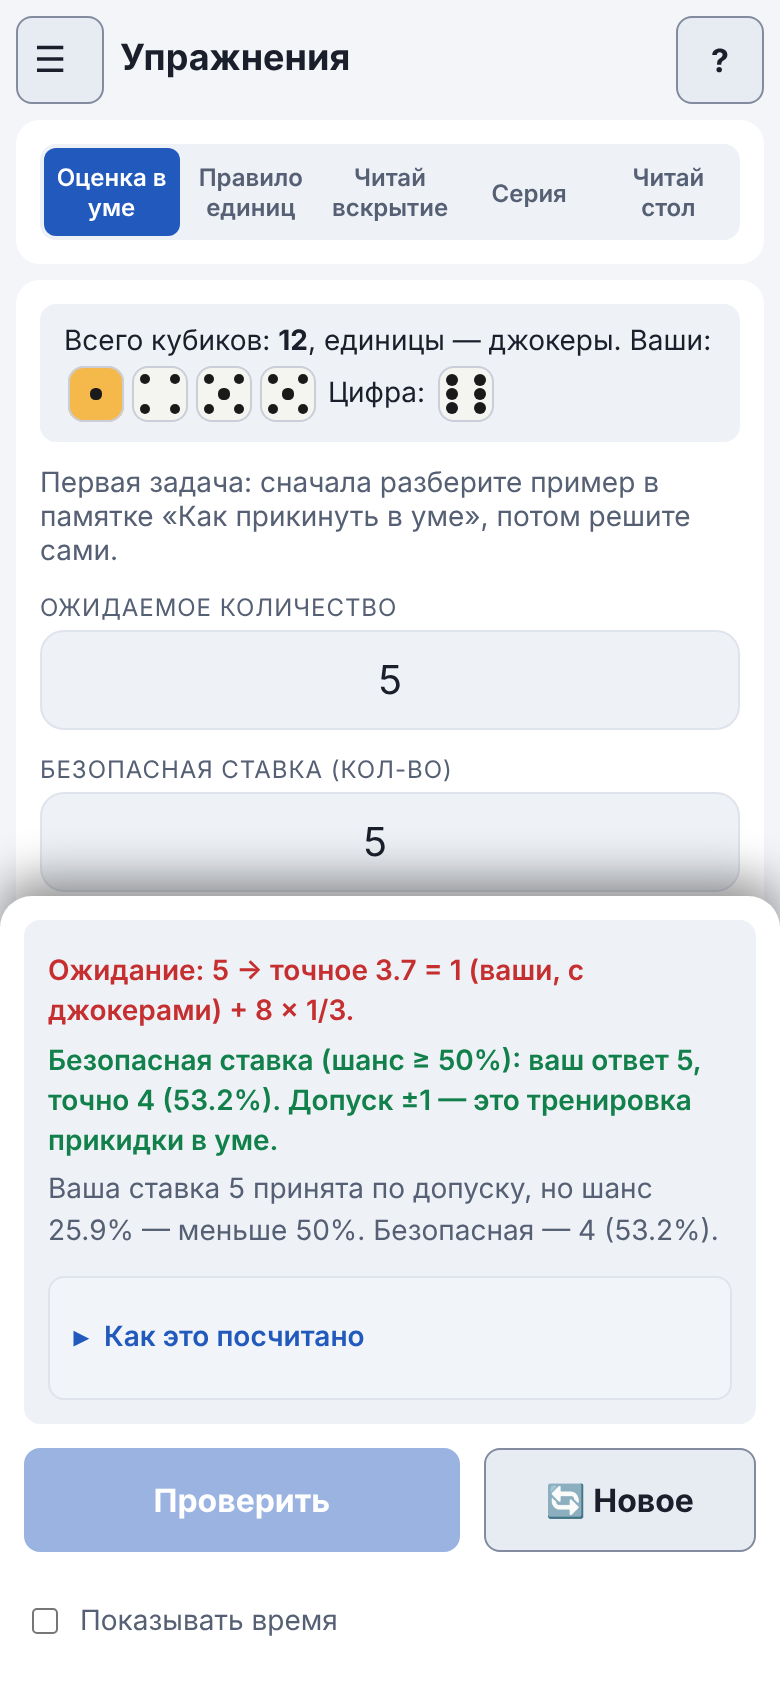
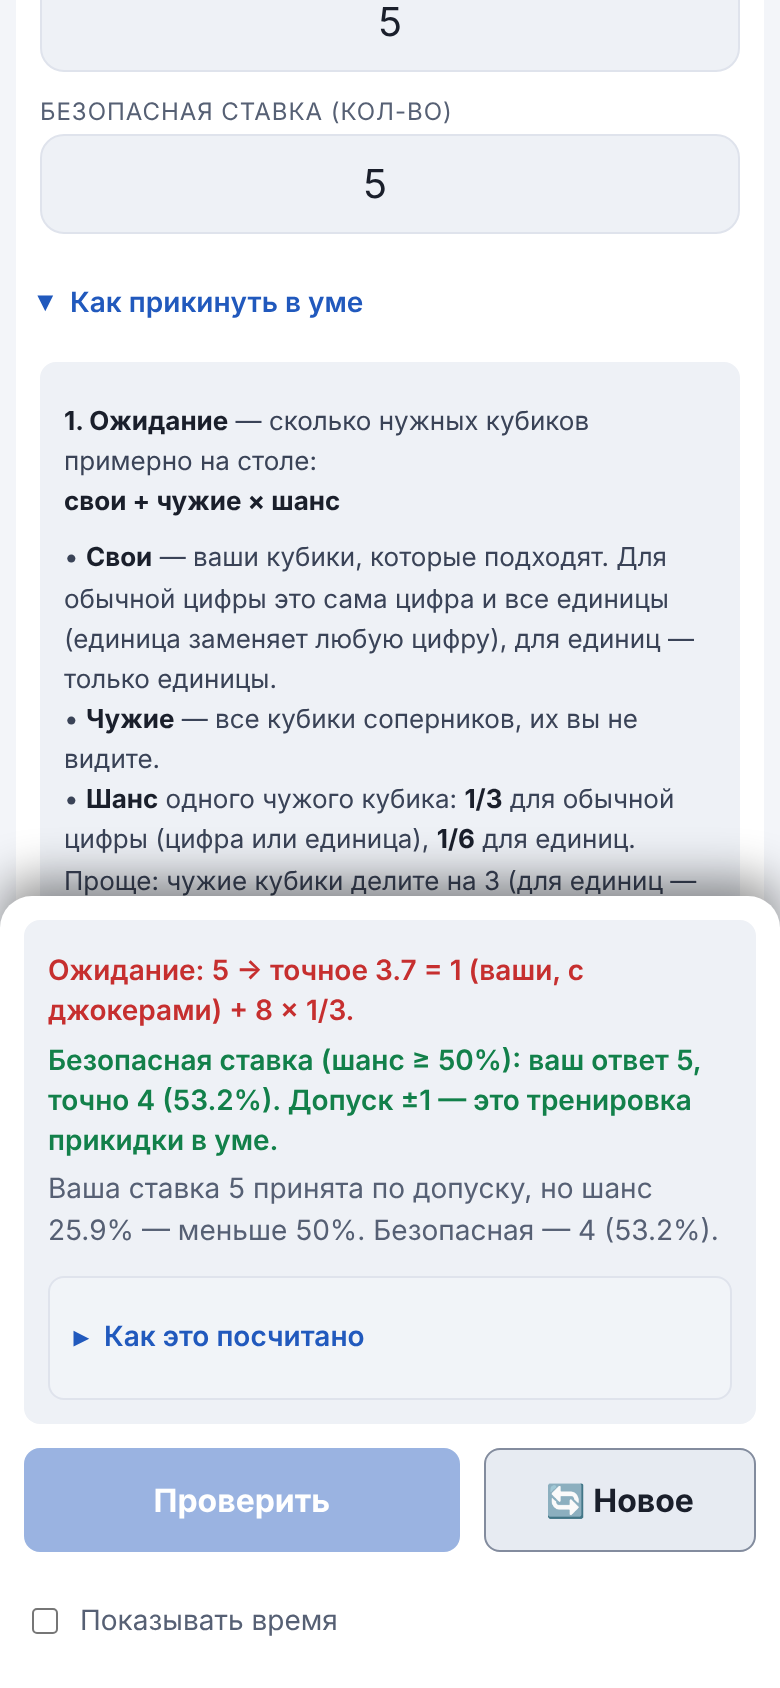
Патч 262: R-09 релиз 2.20.0 — Тренажёр по макету, единый разбор хода, скриншоты обновлены
Версия 2.20.0 (package.json, package-lock.json), запись в CHANGELOG по
волнам 20–21, R-09 отмечен (134 из 134). Скриншоты руководства
перегенерированы; снимок разбора теперь делается после повышения, чтобы
был виден блок «Шанс при повышении». Тест размеров снимков допускает
высоту страницы у снимков экрана подготовки. Аудит дизайна пересобран.

diff --git a/tests/test_screenshots.py b/tests/test_screenshots.py
@@ -68,7 +68,12 @@ class ScreenshotsTest(unittest.TestCase):
         files = sorted(f for f in os.listdir(os.path.join(ROOT, "docs", "img")) if f.endswith(".png"))
         self.assertEqual(sorted(f[:-4] for f in files), sorted(shots.NAMES), "картинки docs/img и список скрипта расходятся")
         for f in files:
-            self.assertIn(png_size(os.path.join(ROOT, "docs", "img", f)), allowed, f"{f}: нестандартный размер")
+            size = png_size(os.path.join(ROOT, "docs", "img", f))
+            if f in ("settings-desktop.png", "settings-dark-desktop.png"):
+                # снимок экрана подготовки берёт высоту страницы (R-08): от 1330 до 2600 px при ширине 1280
+                self.assertTrue(size[0] == 1280 and 1330 <= size[1] <= 2600, f"{f}: нестандартный размер {size}")
+            else:
+                self.assertIn(size, allowed, f"{f}: нестандартный размер")
 
     def test_images_are_optimized(self):
         """Вес всех картинок вместе не растёт неограниченно (сейчас около 5,6 МБ: в основном дерево стола)."""

diff --git a/tools/screenshots.py b/tools/screenshots.py
@@ -229,8 +229,8 @@ def scene_trainer(page, phone):
 
 def scene_trainer_feedback(page, phone):
     scene_trainer(page, phone)
-    page.locator("#tDudo").click()
-    page.wait_for_selector("#tFb .fb-title, #tFb b, #tFb strong")
+    page.locator("#tRaise").click()   # повышение: виден блок «Шанс при повышении»
+    page.wait_for_selector("#tFb .tm-row")
     page.wait_for_timeout(400)
 
 

diff --git a/CHANGELOG.md b/CHANGELOG.md
@@ -2,6 +2,16 @@
 
 Формат: [Keep a Changelog](https://keepachangelog.com/ru/1.1.0/), версии: [семантическое версионирование](https://semver.org/lang/ru/). В описаниях только то, что видно пользователю или влияет на работу; технические подробности смотрите в истории коммитов.
 
+## [2.20.0] — 2026-11-27
+
+### Изменено
+- **«Тренажёр» перенесён с утверждённого макета.** Ситуация собрана в одном блоке: ваши кубики и ставка соперника рядом, условия партии короткими подписями, вопрос задачи над ситуацией. Настройки свёрнуты в одну строку «Классика · порог 50 %» и раскрываются по клику; порог задаётся в процентах (5–95, шаг 5).
+- **Разбор хода.** Сверху плашка «Хорошее решение» / «Сомнительное решение» с шансом хода и порогом, ниже блок «Шанс при повышении»: ваша ставка и соседние (на кубик меньше и больше) с категорией «ниже порога», «небольшой запас» или «уверенный запас» и границами для вашего порога. Одна оговорка: оценка идёт по шансу, а не по итогу раунда.
+- **Единая строка варианта.** В блоке «Шанс при повышении» и в списке «Все варианты по шансу» — строки одного вида: ставка или «Не верю» слева, целый процент справа, категория под ним. Ваш выбор отмечен вертикальной полосой, верный ход при ошибке — меткой «лучший» в списке; отдельного блока «Лучший ход» и повторяющихся подписей больше нет.
+- **«Не верю» оценивается по общему правилу:** ход верен, если его шанс (целым процентом, как на экране) выше порога; если такого хода нет, верен ход с наибольшим шансом.
+- «Лестница ставок»: у соперников в истории ставок их имена вместо «Соперник N».
+- Руководство и скриншоты «Тренажёра» обновлены.
+
 ## [2.19.0] — 2026-11-22
 
 ### Изменено

diff --git a/docs/dev/roadmap.md b/docs/dev/roadmap.md
@@ -4,7 +4,7 @@
 
 **Как вести файл.** Пункт выполнен, когда его патч применён и проверен: в строке меняется `[ ]` на `[x]` и в поле «Патч» ставится номер. Отметку делает тот же патч, который закрывает пункт. Тест `tests/roadmap.test.js` следит, чтобы ID не повторялись, у выполненных был номер патча, а счётчик ниже совпадал со списком.
 
-Выполнено: 133 из 134
+Выполнено: 134 из 134
 
 Формат строки: `- [ ] **ID** · размер (S, M, L) · название (замечания из отчёта) — критерий готовности. Патч: номер или —`.
 
@@ -245,7 +245,7 @@
 - [x] **R-06** · S · Релиз 2.17.0 после волн 9, 10 и 11 — версия, CHANGELOG, текст релиза, команды тега. Патч: 203
 - [x] **R-07** · S · Релиз 2.18.0 после волн 12, 13 и 14 — версия, CHANGELOG, текст релиза, команды тега. Патч: 216
 - [x] **R-08** · S · Релиз 2.19.0 после волн 15, 16, 17 и 18 — версия, CHANGELOG, скриншоты, текст релиза, команды тега. Патч: 242
-- [ ] **R-09** · S · Релиз 2.20.0 после волн 20 и 21 — версия, CHANGELOG, скриншоты Тренажёра, текст релиза, команды тега. Патч: —
+- [x] **R-09** · S · Релиз 2.20.0 после волн 20 и 21 — версия, CHANGELOG, скриншоты руководства (сцена разбора — повышение, виден блок «Шанс при повышении»), текст релиза, команды тега. Патч: 262
 
 ## Отложено и почему
 
